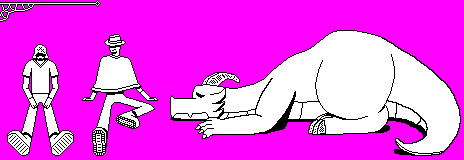
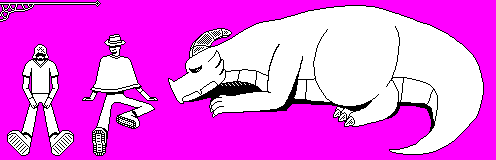
Redrawn Xander's rest sprite.

diff --git a/src/scenes/rest_menu.cpp b/src/scenes/rest_menu.cpp
@@ -78,7 +78,7 @@ void RestMenuScene::setupCharacters() {
     }
     case CompanionID::XANDER: {
       com_sprite = &atlas.sprites[3];
-      com_position = {-35, -55};
+      com_position = {-44, -54};
       break;
     }
   }
